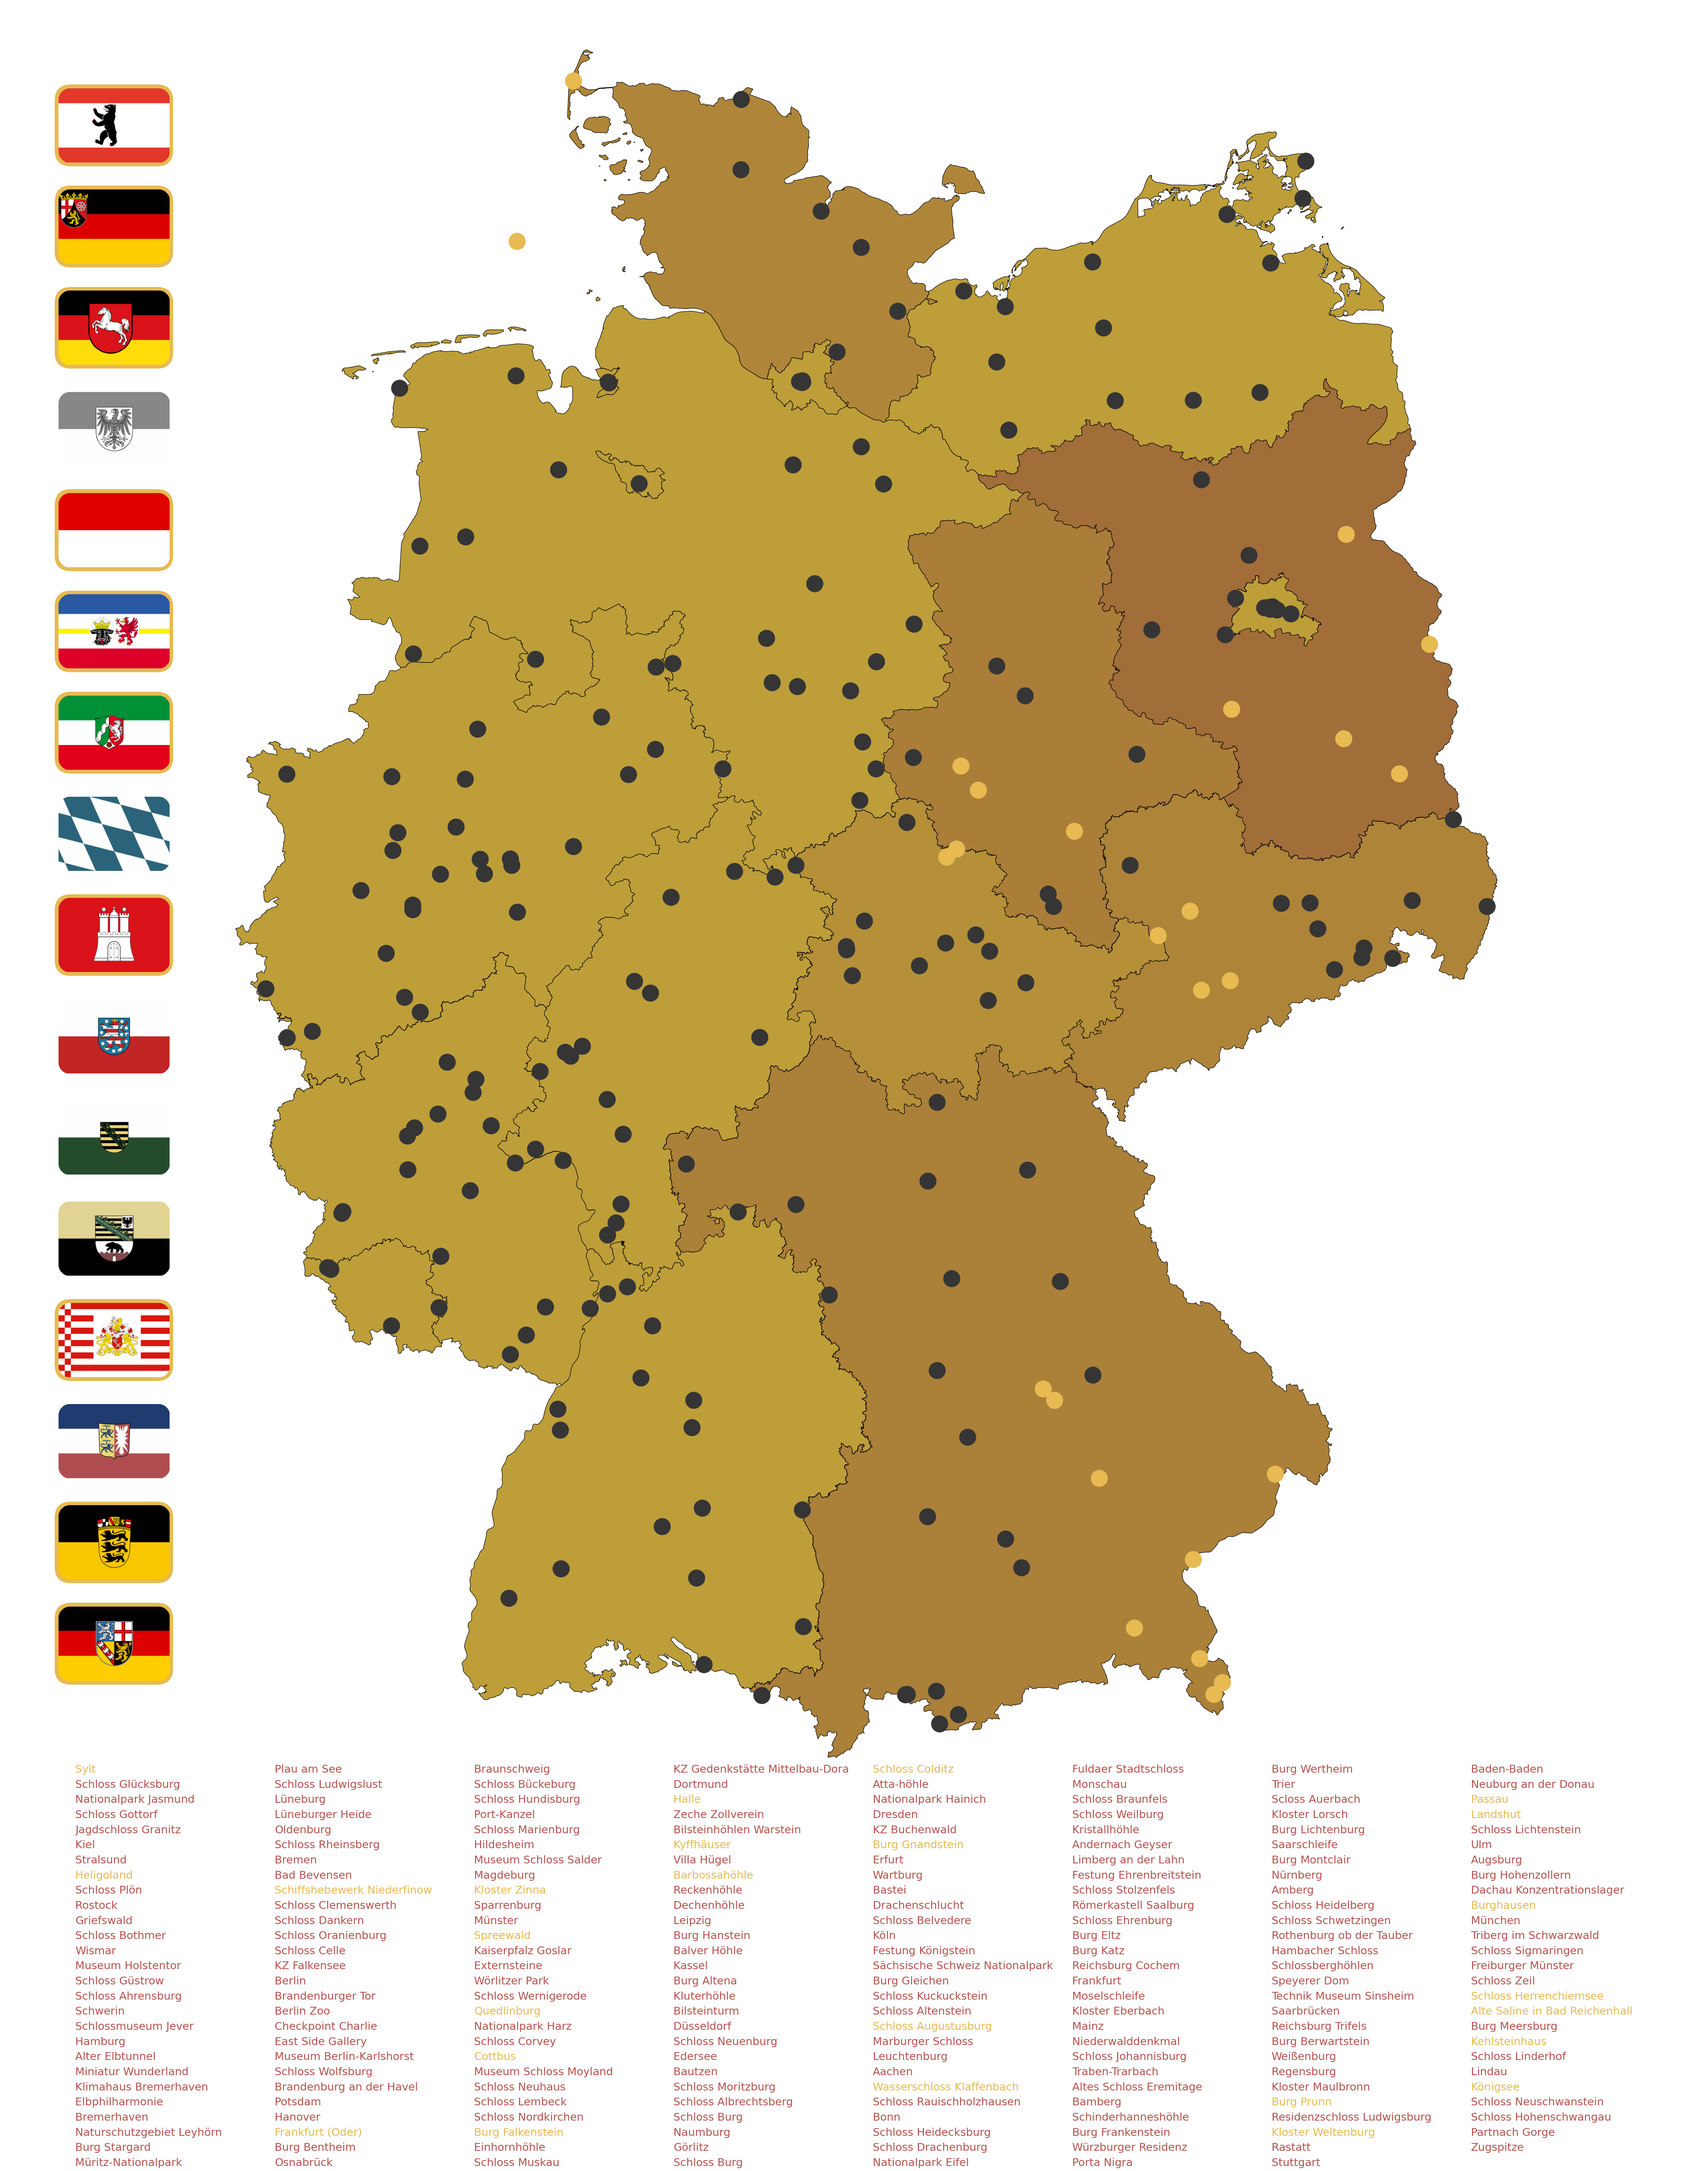
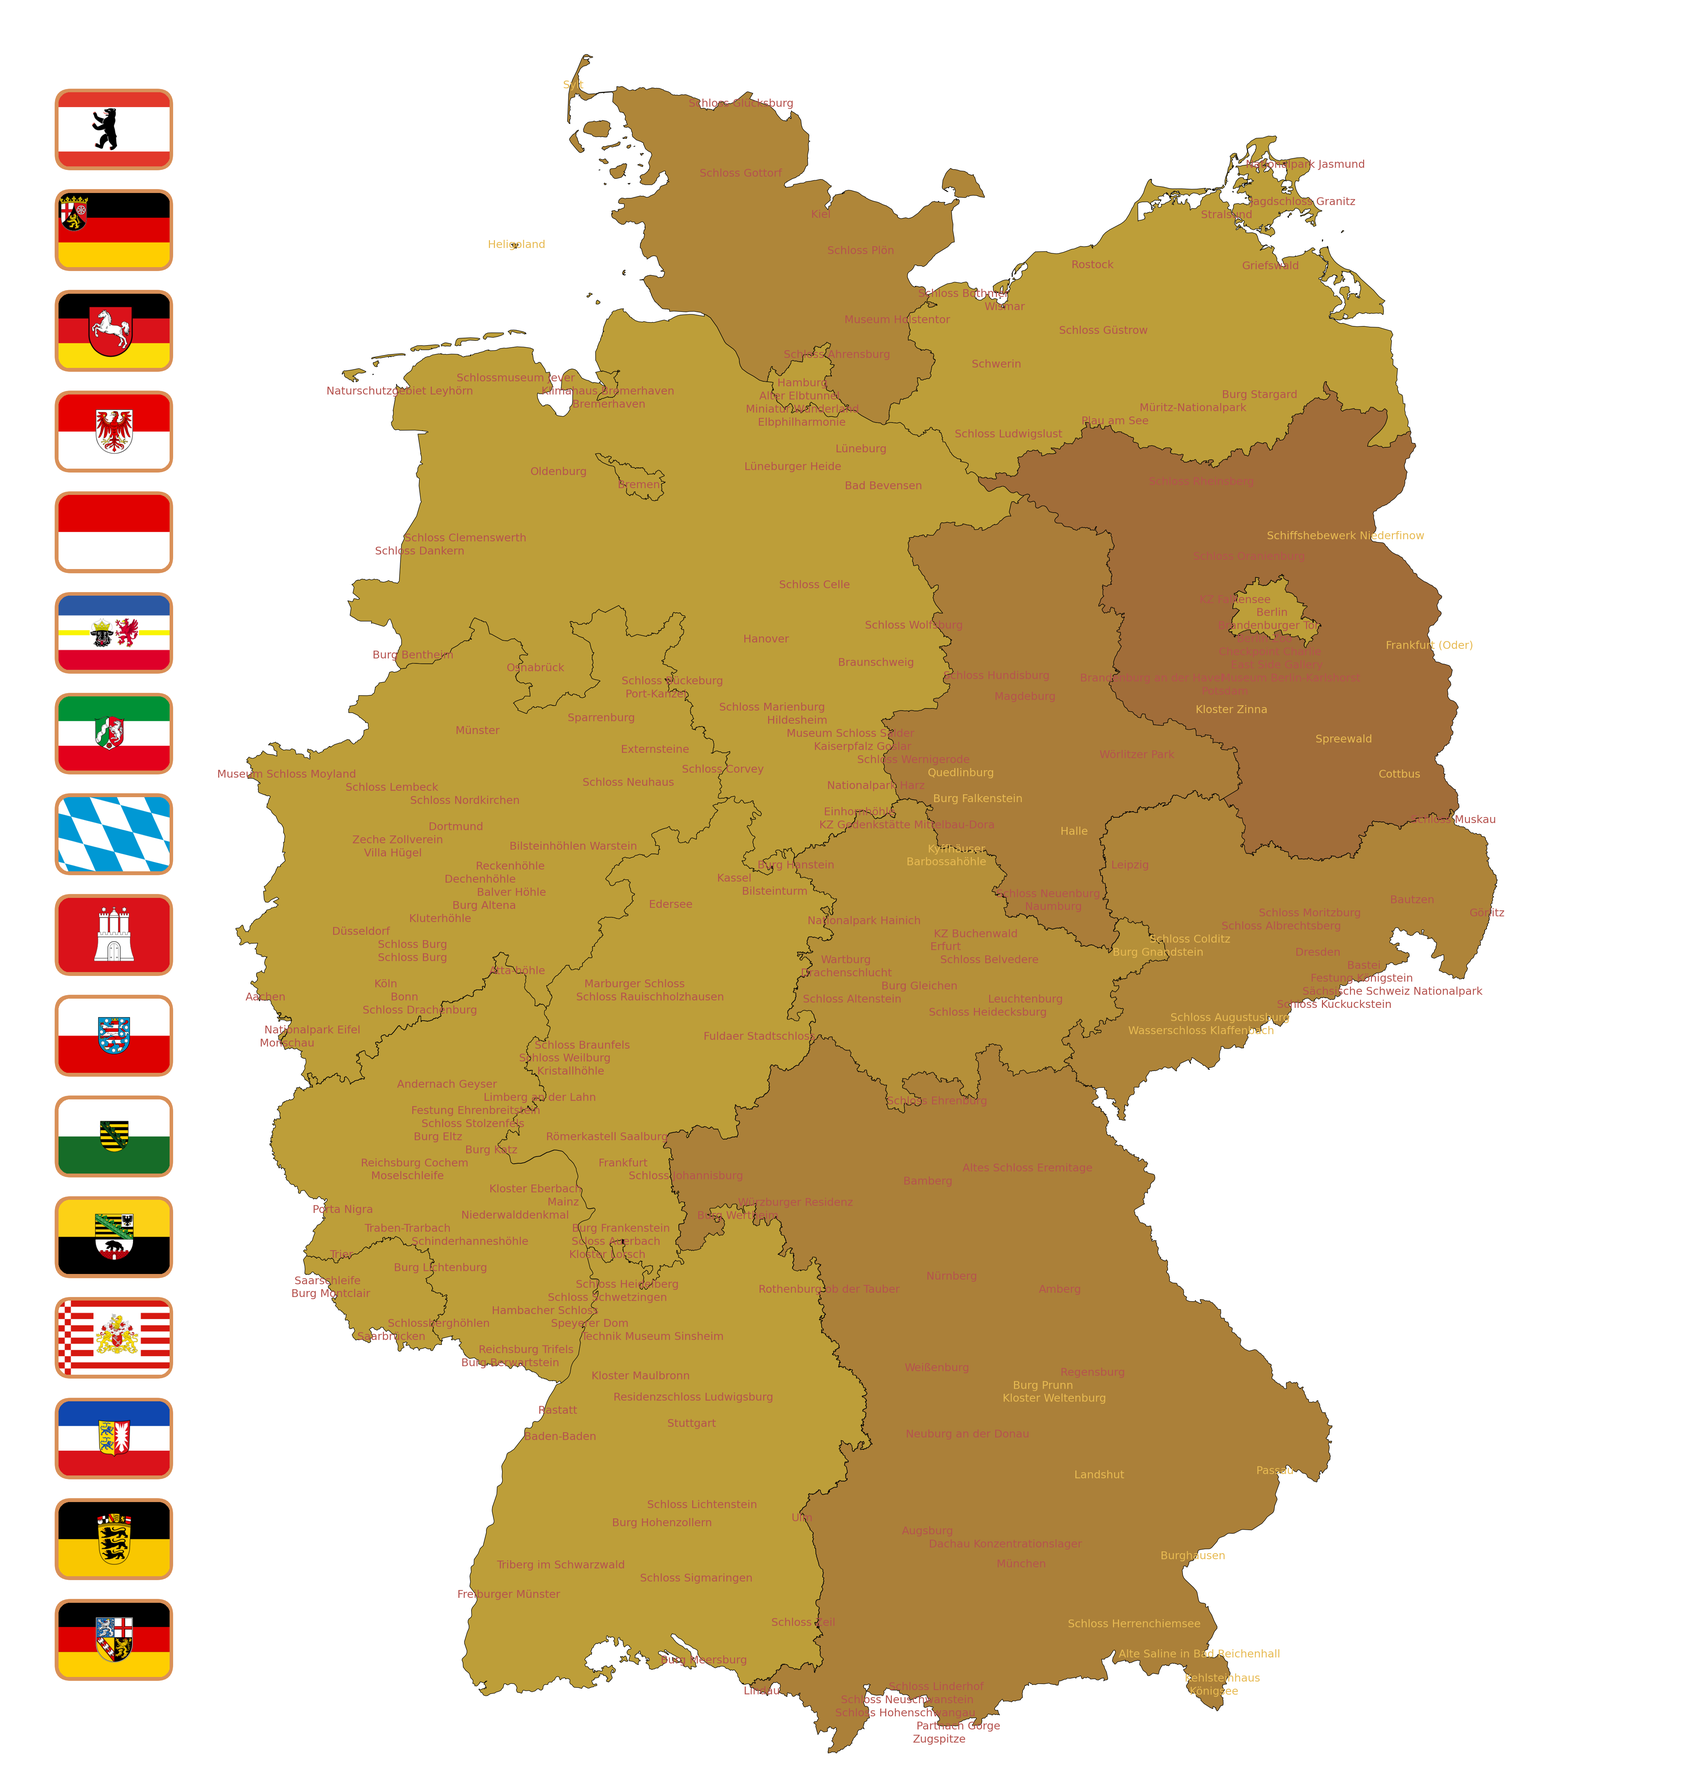
update label plotting for de

diff --git a/main.py b/main.py
@@ -10,19 +10,19 @@ from utils.file_utils import ensure_directory_exists
 
 
 # Set global variables, directories for map creation and site locations
-SCALE = 5
+SCALE = 4
 
 # US National Park Global Variables
 #PATH = "us"
 
 # Germany Global Variables
-#PATH = "de"
+PATH = "de"
 
 # Europe Global Variables
 #PATH = "eu"
 
 # Iran Global Variables
-PATH = "ir"
+#PATH = "ir"
 
 # Ensure output folders exist
 ensure_directory_exists("plots/temp")
